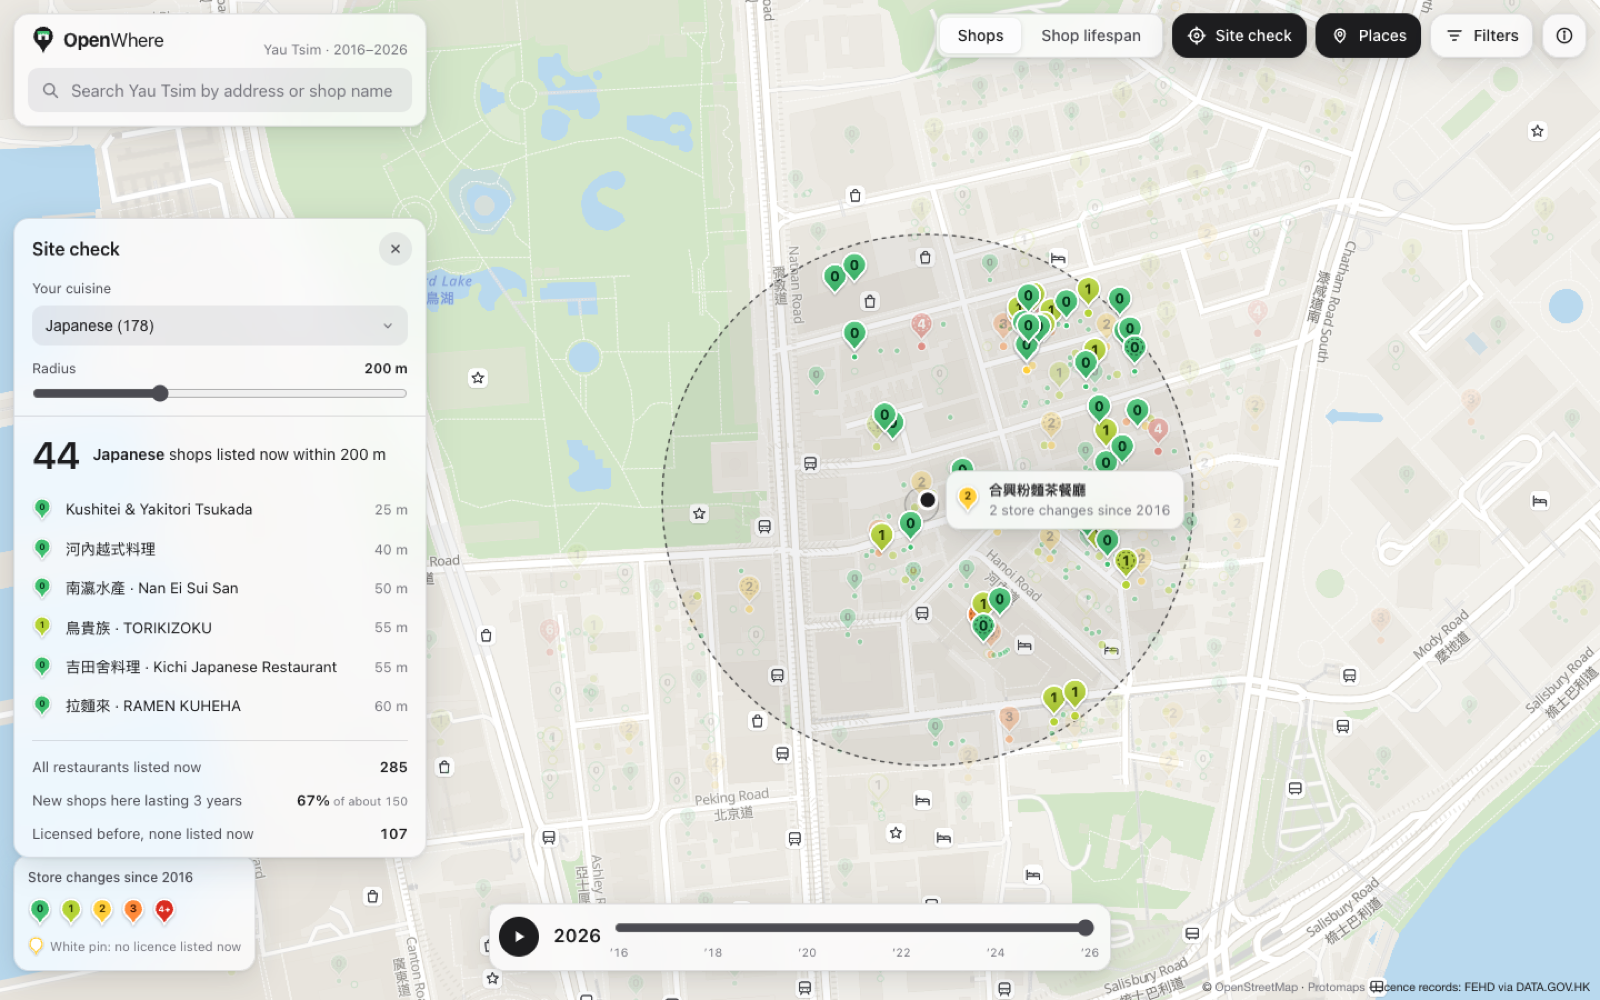
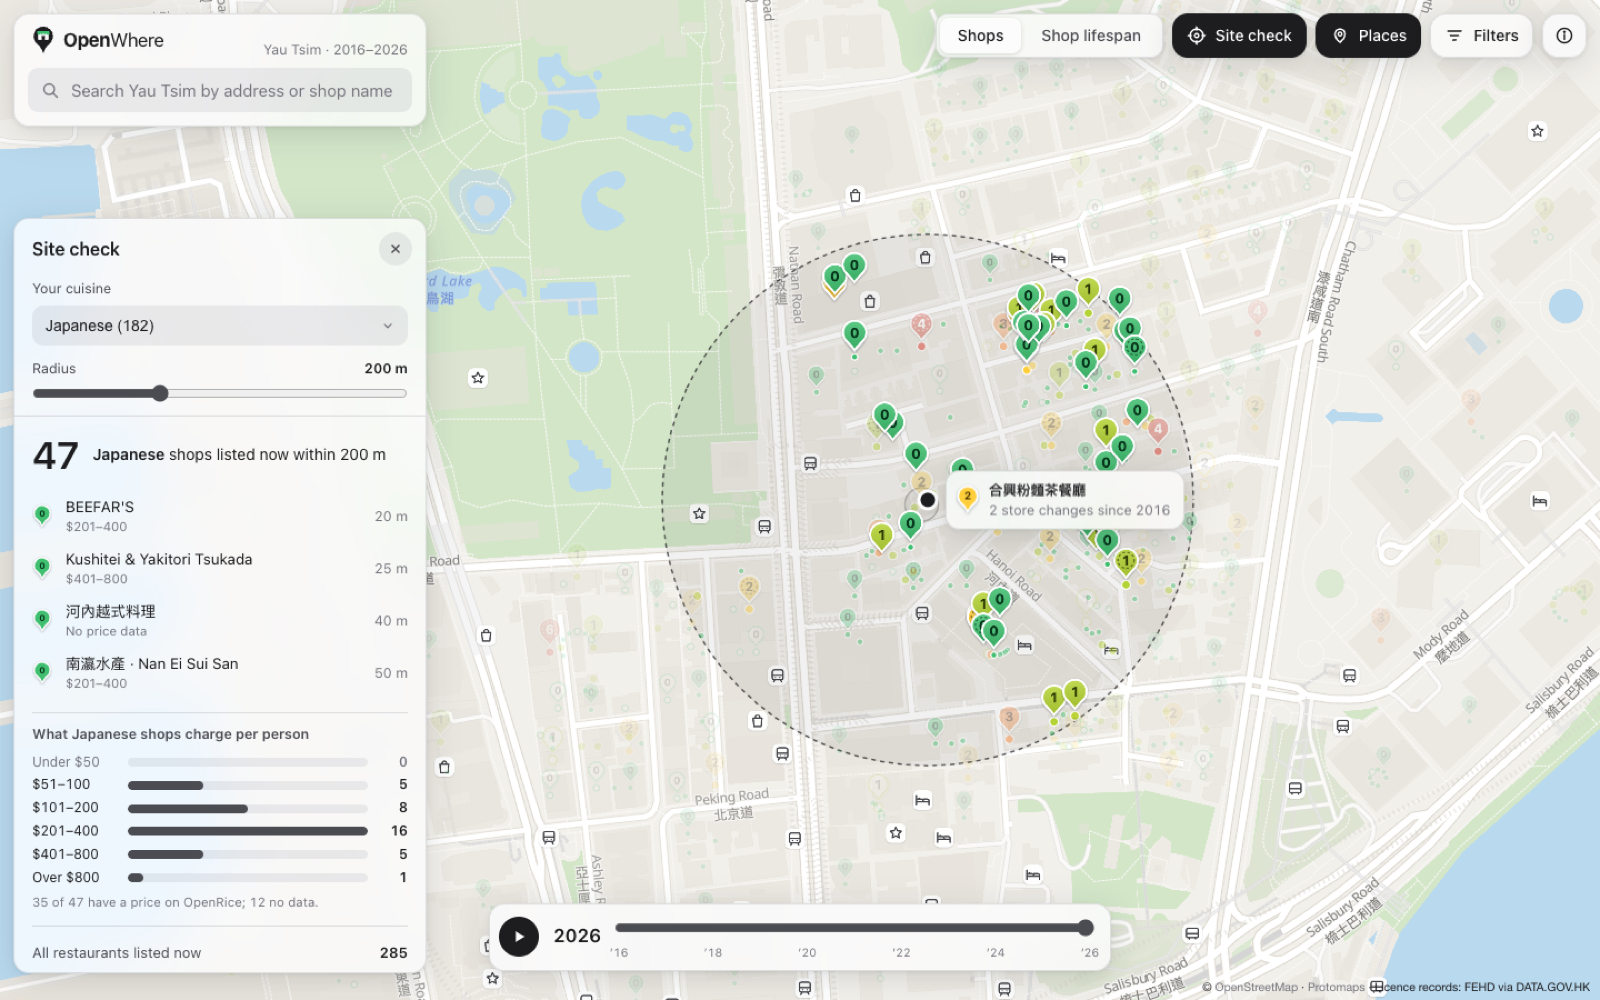
Document OpenRice price matching and the new shop card

diff --git a/README.md b/README.md
@@ -16,6 +16,7 @@ It is a reference for anyone in the food business, from a single noodle shop to 
 - **See how long shops last.** *Shop lifespan* colours the streets by the share of new shops still listed three years after they opened. Green means shops last and red means they don't. Paler colour means the estimate rests on fewer shops.
 - **Check a site.** *Site check* lets you click any spot, choose your cuisine and drag the radius (50 to 500 m). You get:
   - same-cuisine competitors listed now, nearest first, highlighted on the map;
+  - **what they charge per person**, as a bar per OpenRice price band;
   - all restaurants nearby;
   - the local 3-year survival rate;
   - units that held a licence before but have none now;
@@ -23,7 +24,13 @@ It is a reference for anyone in the food business, from a single noodle shop to 
   - the nearest MTR exit;
   - the hotels, schools, malls, landmarks and stations in range.
 - **See what draws people.** *Places* shows MTR exits, stations, hotels, schools and universities, malls and markets, landmarks and venues, and hospitals. It can be switched off.
-- **Open a unit.** Click a pin, or search in English or Chinese (`砵蘭街100`, `Hau Fook`, a shop name). The panel shows every sign at that address with its years and licence type, the cuisine, the nearest MTR exit, and the licence records behind it.
+- **Open a shop.** Click a pin, or search in English or Chinese (`砵蘭街100`, `Hau Fook`, a shop name). The card leads with what a future tenant needs:
+  - the shop listed now, with its cuisine and **price per person** from OpenRice ("No data" where there's no match);
+  - store changes since 2016, and how long the current shop has been there;
+  - the nearest MTR exit;
+  - whether a full kitchen is on record.
+
+  Below that, every past shop at the address is one line, and the licence records are one tap away.
 - **Play ten years.** The year bar replays 2016 to 2026, and units whose count rises that year pulse.
 - **Compare and print.** Pin up to three units to see their signs on one 2016–2026 axis, with each store change marked and the gaps with no licence dashed. Then print a sheet that cites its source for every row.
 
@@ -87,6 +94,19 @@ The licence lists carry no cuisine, so it is guessed from each current shop's si
 
 That gives 1,385 of the 1,587 shops listed now (87%) a cuisine. The other 202 stay "unclear from the name" rather than being guessed. A spot check of 45 rule labels found 41 right; the patterns behind the misses were then added. The app always says the cuisine was guessed from the name.
 
+### Price and cuisine from OpenRice
+
+A teammate collected 4,414 OpenRice listings (name, address, coordinates, price range, cuisines); 2,531 of them are in Tsim Sha Tsui, Jordan and Yau Ma Tei. `pipeline/openrice.py` attaches a listing to one of our current shops only when they clearly describe the same place:
+- the names match closely and the points are within 150 m; or
+- the street number and street agree and the names are similar; or
+- the names are fairly close and the points are within 60 m.
+
+Each listing and each shop is used once, best match first.
+
+Every match with a weaker name score was read by hand, and 12 were rejected. In the end, **963 of the 1,562 named shops listed now (62%) have an OpenRice price and cuisine**; a random sample of 35 strong matches was all correct. Shops without a match say "No data". OpenRice's cuisine replaces the guess from the name, except for dish types OpenRice doesn't record (hot pot, bar, café, noodles, fast food).
+
+OpenRice's terms restrict copying, so the raw listings stay out of this repository (`data/openrice/` is ignored). Only the matched price band and cuisine labels reach the app, credited to OpenRice.
+
 ### Places and MTR exits
 
 Places and MTR exits come from OpenStreetMap via the Overpass API. Tutoring centres tagged as schools are dropped. Distances are straight-line, not walking routes: the median shop is 149 m from its nearest MTR exit.
@@ -101,7 +121,8 @@ Places and MTR exits come from OpenStreetMap via the Overpass API. Tutoring cent
 | Street-level shopfronts placed on the map | 1,121 of 1,195 (94%) |
 | Street-level: no change / 1 / 2 / 3 / 4 or more | 832 / 212 / 56 / 15 / 6 |
 | New street-level shops since 2016 still listed after 3 years | 75% |
-| Current shops with a cuisine label | 1,385 of 1,587 (87%) |
+| Current shops with a cuisine label | 1,460 of 1,587 (92%), from OpenRice or the name |
+| Current shops with an OpenRice price per person | 963 of 1,562 named shops (62%) |
 | Places on the map | 160 MTR exits, 138 hotels, 161 schools, 95 malls and markets, 69 landmarks, 60 stations, 7 hospitals |
 
 Yau Tsim was picked from the 19 FEHD districts by running the same counting over all of them. It has:
@@ -125,6 +146,7 @@ python units.py geocode --dist 61      # Address Lookup Service, cached
 python units.py build                  # addresses -> units
 python histories.py                    # link rules, store changes
 python cuisine.py                      # cuisine guessed from current signs
+python openrice.py                     # match OpenRice listings (needs data/openrice/openrice.md)
 python export.py                       # web/public/data
 python facilities.py                   # OpenStreetMap places, MTR exit distance
 python heat.py                         # shop lifespan surface
@@ -137,6 +159,7 @@ python heat.py                         # shop lifespan surface
 | Units | `units.py` | Parses floor, shop numbers and street address by rule, then places each building with the government Address Lookup Service. |
 | Histories | `histories.py` | Applies the link rules and counts store changes. |
 | Cuisine | `cuisine.py` | Keyword rules plus hand labels for shops listed now. |
+| OpenRice | `openrice.py` | Matches OpenRice listings to current shops for price and cuisine. |
 | Export | `export.py` | GeoJSON, one history file per unit, a search index. |
 | Places | `facilities.py` | OpenStreetMap places and each shop's distance to the nearest MTR exit. |
 | Lifespan | `heat.py` | Distance-weighted Kaplan–Meier surface, its image and a readout grid. |
@@ -171,7 +194,8 @@ docs/             screenshots and brand files
 - Monthly sampling misses a shop that opened and closed between two monthly files.
 - 74 street-level addresses (6%) could not be placed reliably and are left off the map.
 - Link rules can be wrong. Every link is labelled with the rule that made it, and the panel lists the records behind it.
-- Cuisine is a guess from a name, and one in ten shops can't be guessed at all.
+- Where OpenRice has no match, cuisine is a guess from the name, and 127 current shops can't be guessed at all.
+- OpenRice prices are the listing's own price band, as collected; they may be out of date for some shops.
 - Shop lifespan compares areas within this district only. Its colours come from Yau Tsim's own range.
 - No rent data: there is no reliable public source for the current rent of individual shops.
 
@@ -179,6 +203,7 @@ docs/             screenshots and brand files
 
 - Restaurant licence lists: Food and Environmental Hygiene Department, via the [DATA.GOV.HK historical archive](https://data.gov.hk/en/help/api-spec).
 - Building locations: [Address Lookup Service](https://www.als.gov.hk), Office of the Government Chief Information Officer.
+- Price per person and cuisine for matched shops: [OpenRice](https://www.openrice.com), collected by a teammate.
 - Places, MTR exits and basemap: © [OpenStreetMap](https://www.openstreetmap.org/copyright) contributors (ODbL), rendered with [Protomaps](https://protomaps.com) and [MapLibre GL JS](https://maplibre.org).
 
 Reconstructed from FEHD licence lists. Not a record of ownership, tenancy or business performance.

diff --git a/DESIGN.md b/DESIGN.md
@@ -333,8 +333,8 @@ A map pin (where) whose head holds a shop awning (open): ink pin, white shopfron
 - **Switch:** 38 × 23px track in Tint Fill Strong, white thumb; on is ink, the thumb travels over 220ms.
 - **Year slider:** the native range input in Slate Ink, with tabular year ticks every second year beneath.
 
-### Unit Panel
-The 400px glass panel slides in from the right over 340ms as the map flies to the unit (900ms) and the badge lifts, as one motion. Head: address headline, Chinese address in Slate Ink, the large chip with "N store changes since 2016", fact tags and actions. Body: the sign timeline (74px year column, sign names Chinese first then English), store-change markers as small ramp-coloured dots on a hairline, and a collapsible records table in 12px text.
+### Shop Card
+The 400px glass panel slides in from the right as the map flies to the shop and its pin lifts, as one motion. Built for low density, in this order: the shop listed now as a 21px headline, its cuisine (OpenRice tags, or the name-based guess marked as such), the address in English and Chinese in Mist Ink; then a hairline and a two-column fact list (12px Mist Ink labels over 16px semibold values): price per person (OpenRice band or "No data"), store changes with a 16px pin mark, how long this shop has been here, nearest MTR exit with the exit name small beneath, and a full-width kitchen line from the licence type. Actions: Check this spot (ink) and Pin to compare. Body: past shops as one line each (years column, sign name, English name small beneath, an occasional "after N months with no licence"), and the licence records, notes and source behind a disclosure.
 
 ### Compare Sheet
 A bottom sheet rising over 320ms, up to 1120px wide, holding up to three pinned units as lanes on one 2016–2026 axis: a 248px identity column (pin mark, street line, floor and area), a 14px track with separated rounded bands per sign (the current one in ink), ramp-coloured dots at each store change, dashed gaps with no licence, sign names on two staggered lines under the track, and one line of facts. Empty slots show a dashed pin with an invitation to pin another.
